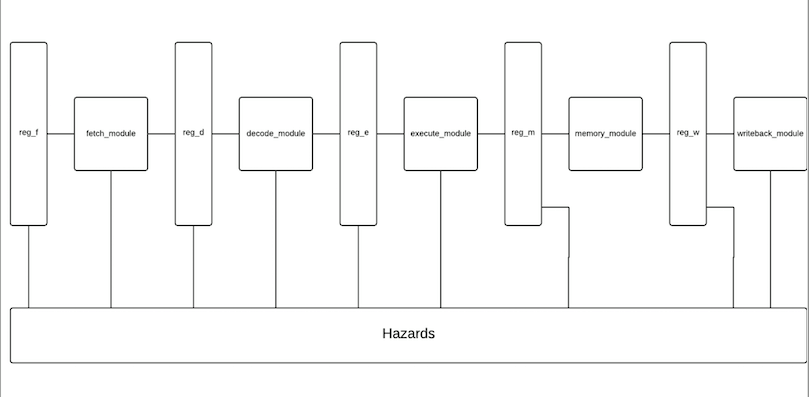
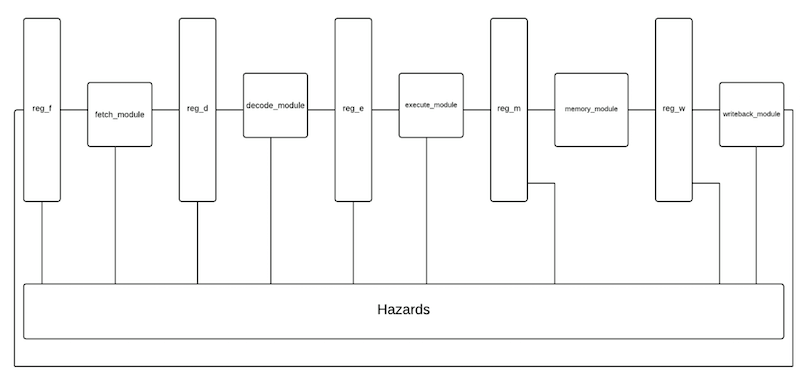
updated readme

diff --git a/README.md b/README.md
@@ -17,13 +17,16 @@ To run and compile, navigate to the main directory and run `./run`. This compile
 
 ### Top Level
 ![alt text](https://github.com/cnw004/mips_cpu/blob/feature/whitley/update-readme/img/overview.png "Top Level")
+This image is was created to show a very high level of how our modules connect to one another. Each of the modules between the registers are our mid-level modules and encapsulate all other lower level modules that are inside of their respective stages. This greatly helped us keep sanity when wiring these together. As you can see, most modules are connected to hazards either providing inputs or outputs. The registers are the only clocked modules and act as drivers of our system.
 
 ### Syscall
 ![alt text](https://github.com/cnw004/mips_cpu/blob/feature/whitley/update-readme/img/syscall.png "Syscall")
+This diagram was created to display how we implement syscalls. We decided to execute syscalls inside of the writeback stage. In order to make this happen we send syscall_in (our control signal for syscall) and instruction_in (our raw instruction) through all of our registers to ensure proper timing going into syscall. Both v0 and a0 go directly from registers into syscall (skipping all of the clocking). While this may seem odd, we do this because we want to ensure that we have the most up to date values stored in these registers.
 
 
 ### Forward Mem to Mem
 ![alt text](https://github.com/cnw004/mips_cpu/blob/feature/whitley/update-readme/img/forwardMM.png "Forward Mem to Mem")
+This diagram was created to demonstrate how we implement mem to mem forwarding. This type of forwarding was not explicitly explained in the book, nor was it shown on the initial diagram. We pass the value of Rt through regM so that we have the value of it in the memory stage, and then pass that into the hazard unit. The forwardMM signal is generated by comparing the Rt register in the writeback stage to the Rt register in the memory stage. If they are the same, we are writing to a register in the writeback stage, and we are writing to memory in the memory stage, we will need to forward the data that was going to written in the writeback stage to the memory stage.
 
 
 ## Design Features
